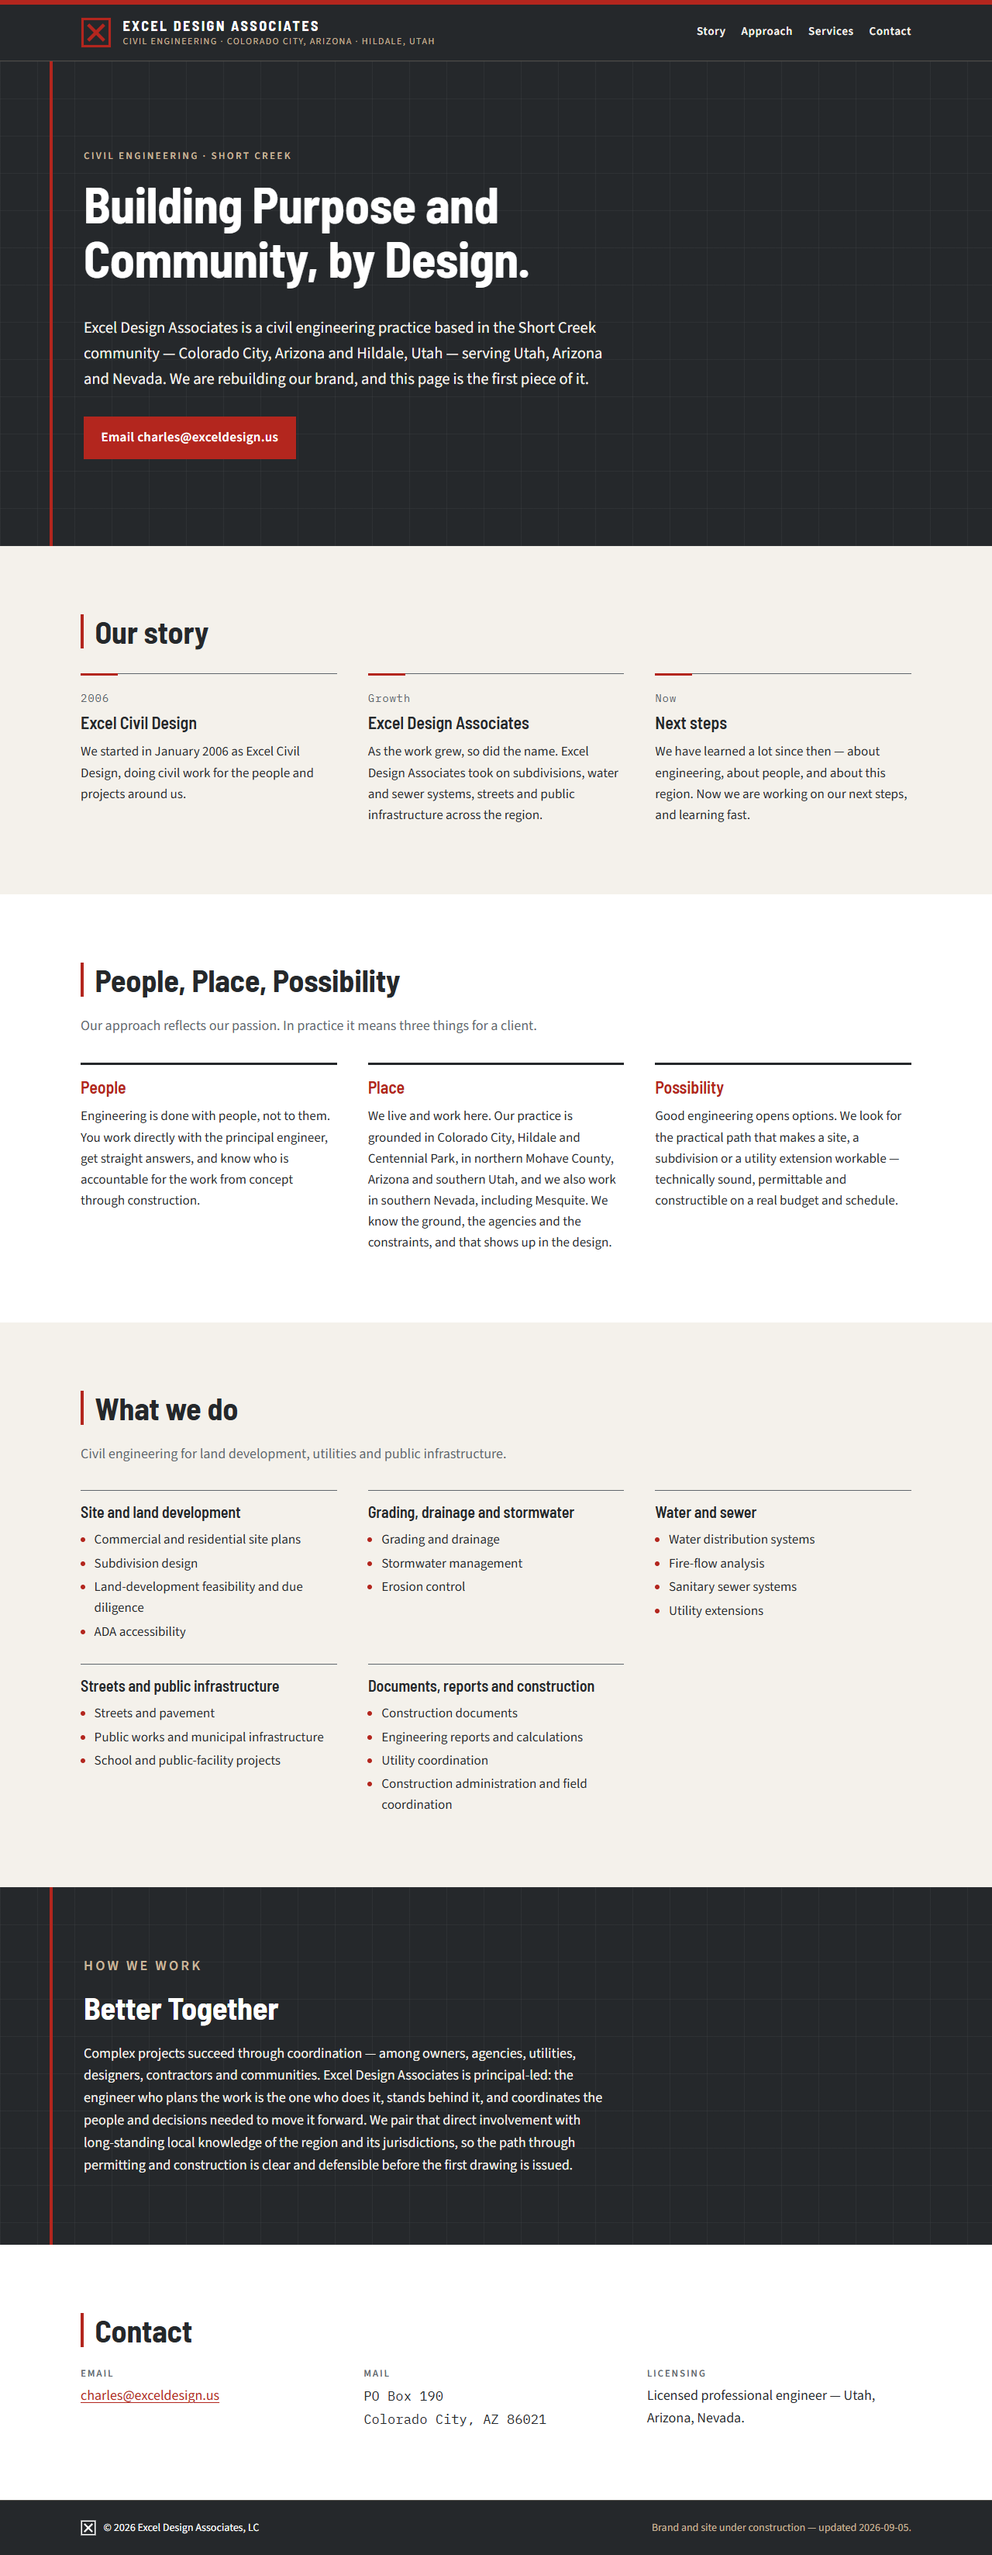
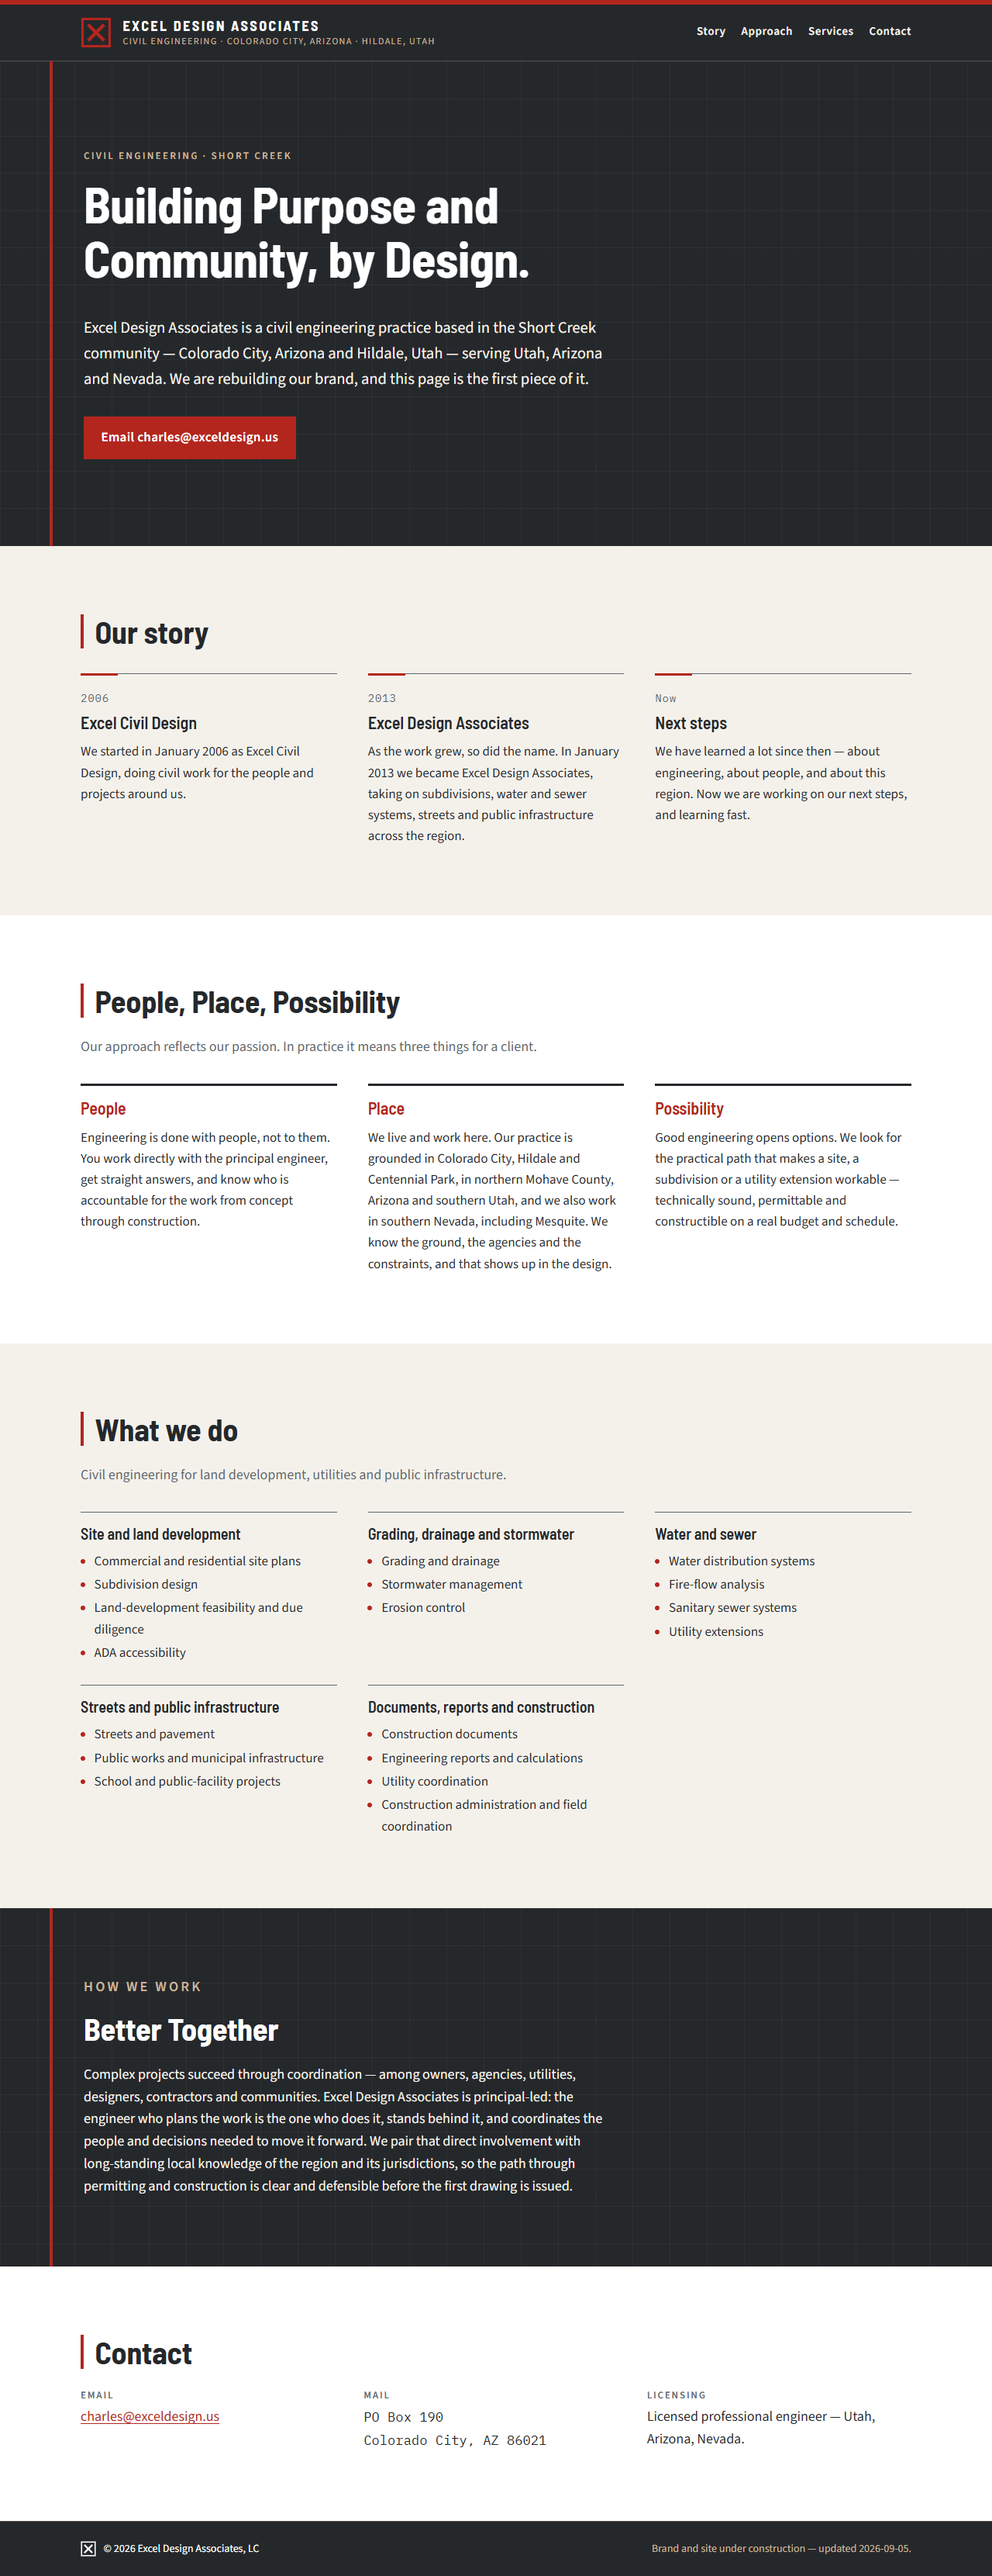
Canonical to www (D11); 2013 rename year on the timeline (D8); Step 0 repo created

diff --git a/index.html b/index.html
@@ -7,13 +7,13 @@
 <meta name="theme-color" content="#B3261E">
 <title>Excel Design Associates — Civil engineering, Short Creek</title>
 <meta name="description" content="Excel Design Associates is a principal-led civil engineering practice based in the Short Creek community — Colorado City, Arizona and Hildale, Utah — serving Utah, Arizona and Nevada. Building Purpose and Community, by Design.">
-<link rel="canonical" href="https://exceldesign.us/">
+<link rel="canonical" href="https://www.exceldesign.us/">
 <meta property="og:type" content="website">
 <meta property="og:site_name" content="Excel Design Associates">
 <meta property="og:title" content="Excel Design Associates — Building Purpose and Community, by Design.">
 <meta property="og:description" content="A principal-led civil engineering practice based in the Short Creek community — Colorado City, Arizona and Hildale, Utah — serving Utah, Arizona and Nevada.">
-<meta property="og:url" content="https://exceldesign.us/">
-<meta property="og:image" content="https://exceldesign.us/og-image.png">
+<meta property="og:url" content="https://www.exceldesign.us/">
+<meta property="og:image" content="https://www.exceldesign.us/og-image.png">
 <meta property="og:image:width" content="1200">
 <meta property="og:image:height" content="630">
 <meta property="og:image:alt" content="Excel Design Associates mark and the line Building Purpose and Community, by Design.">
@@ -73,9 +73,9 @@
           <p>We started in January 2006 as Excel Civil Design, doing civil work for the people and projects around us.</p>
         </li>
         <li>
-          <span class="timeline__when">Growth</span>
+          <span class="timeline__when">2013</span>
           <h3>Excel Design Associates</h3>
-          <p>As the work grew, so did the name. Excel Design Associates took on subdivisions, water and sewer systems, streets and public infrastructure across the region.</p>
+          <p>As the work grew, so did the name. In January 2013 we became Excel Design Associates, taking on subdivisions, water and sewer systems, streets and public infrastructure across the region.</p>
         </li>
         <li>
           <span class="timeline__when">Now</span>

diff --git a/DECISIONS.md b/DECISIONS.md
@@ -24,7 +24,7 @@ GitHub login (`charles403`), so `git push` to the existing repo worked without `
 that needs the GitHub API — creating the private `scs-social-render` repo (D3), renaming this
 repo, changing Pages settings — is left for Charles. See "Open items".
 
-**D3. Step 0 done locally; the private GitHub repo is not yet created.** The whole
+**D3. Step 0 done; private repo created the same day.** The whole
 `Brand Systems\short-creek-spirits\` folder (design-system package *and* `render/`) moved to
 `C:\Users\cwhwo\scs-social-render\`, `git init` + initial commit done (24 files, commit
 `561a832`), `MOVED.md` left at the old vault path. `gh repo create --private` could not run
@@ -57,9 +57,7 @@ number, board ID, street address fragment, or phone-number pattern appears.
 explicitly instructs "note the firm also works in southern Nevada (Mesquite)". The prompt is
 the more recent authority, so it is in the "Place" pillar.
 
-**D8. Rename year is not stated.** The profile and prompt give the 2006 start as Excel Civil
-Design but no date for the change to Excel Design Associates, so the timeline's middle beat is
-labelled "Growth", not a year. Do not add a year without a source.
+**D8. Rename year: 2013 (resolved 2026-09-05).** The first build labelled the middle beat "Growth" because neither the profile nor the prompt gave a date. Charles then supplied the Utah amendment record: Excel Civil Design, LC registered 2006-01-13; renamed Excel Design Associates, LC effective 2013-01-17 (adopted 2013-01-03). Record filed on the Shared Drive at `01_Company_Management\04_Licensing_and_Registrations\EDA_Formation_Utah_Name_Change_Amendment_RECORD_2013-01-17.pdf`. The timeline now reads 2006 → 2013 → Now and the copy says "In January 2013 we became Excel Design Associates".
 
 **D9. Service groupings.** The fifteen services in the profile are grouped into five headings
 (site and land development · grading, drainage and stormwater · water and sewer · streets and
@@ -70,11 +68,7 @@ extensions; school and public-facility projects). Nothing was added that is not 
 **D10. Entity name.** "Excel Design Associates" in body copy, "© 2026 Excel Design Associates,
 LC" in the footer, per the prompt.
 
-**D11. Canonical URL is `https://exceldesign.us/`** as the prompt specified, even though the
-Pages primary domain is `www.exceldesign.us` and the apex 301s to `www`. Canonical, OG URL and
-sitemap all use the apex form the prompt gave; GitHub handles the redirect. If Charles prefers
-the `www` canonical (which is what the browser bar shows), change lines 10, 15 and 16 of
-`index.html` and `sitemap.xml` — a two-minute edit.
+**D11. Canonical URL is `https://www.exceldesign.us/` (changed 2026-09-05, same day).** The first build used the apex form the prompt gave. Charles chose `www` because it is the Pages primary domain (the apex 301s to it) and what the browser bar shows. Canonical, `og:url`, `og:image`, `sitemap.xml` and the `Sitemap:` line in `robots.txt` all use `www` now.
 
 **D12. Brand line.** The brand standard's primary line is "Local Knowledge. Engineering
 Leadership." The prompt overrides this for the rebuild page with "Building Purpose and

diff --git a/DEPLOY.md b/DEPLOY.md
@@ -72,17 +72,9 @@ in `favicon.svg`; `favicon-32.png` and `og-image.png` are rendered from it by `t
 When the final identity arrives: replace the two inline `<svg>` blocks and `favicon.svg`, update
 the SVG in `tools/shoot.mjs`, run `npm run shoot`, push.
 
-## One-time items still needing Charles (need GitHub sign-in)
+## Optional — rename the repo (`gh` is installed and signed in)
 
 ```powershell
-winget install --id GitHub.cli -e
-gh auth login                                  # GitHub.com → HTTPS → browser; use the cwh-works owner account
-
-# 1. Step 0 of the prompt — create the private repo for the Spirits render pipeline and push
-cd C:\Users\cwhwo\scs-social-render
-gh repo create scs-social-render --private --source . --remote origin --push
-
-# 2. Optional — rename the site repo now that it is no longer a transition page
 gh repo rename eda-website --repo cwh-works/exceldesign-transition-site
 git -C C:\Users\cwhwo\eda-website remote set-url origin https://github.com/cwh-works/eda-website.git
 ```
